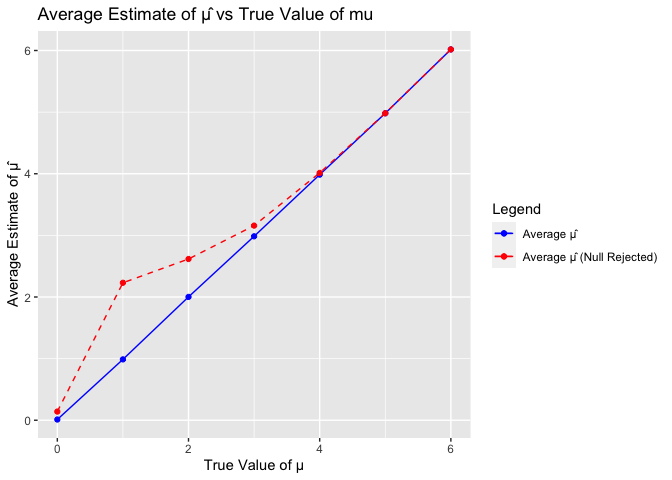
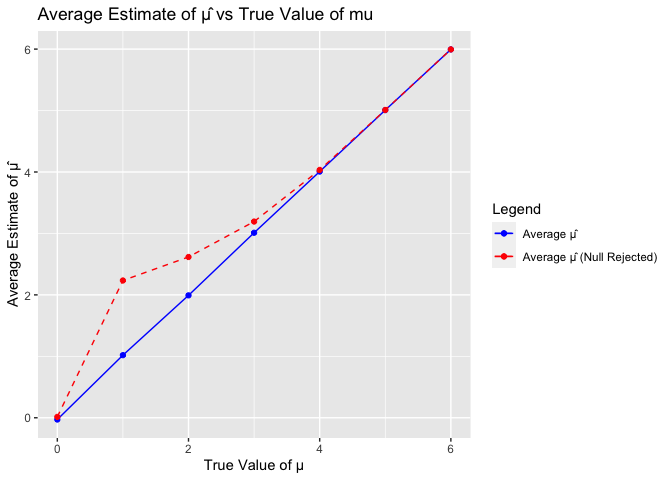
ggsave added

diff --git a/p8105_hw5_qw2418.md b/p8105_hw5_qw2418.md
@@ -218,6 +218,12 @@ ggplot(combined_data, aes(x = Week, y = Observation, group = `Subject ID`, color
 
 ![](p8105_hw5_qw2418_files/figure-gfm/unnamed-chunk-6-1.png)<!-- -->
 
+``` r
+ggsave("spaghetti plot.jpg")
+```
+
+    ## Saving 7 x 5 in image
+
 *comment on differences between groups *: In the control group, when the
 observations are relatively stable across weeks. However, in the
 experimental group, the observation increases when week increases.
@@ -288,19 +294,20 @@ for (i in mu){
 power
 ```
 
-    ## [1] 0.0504 0.1868 0.5626 0.8950 0.9880 0.9996 1.0000
+    ## [1] 0.0506 0.1976 0.5592 0.8930 0.9888 0.9994 1.0000
 
 ``` r
 mean_estimate
 ```
 
-    ## [1] 0.01182005 0.98747296 2.00135396 2.98474683 3.98600500 4.98133098 6.01763679
+    ## [1] -0.02842918  1.01876254  1.99206719  3.01104539  4.00727529  5.00759956
+    ## [7]  5.99495026
 
 ``` r
 mean_est_rej
 ```
 
-    ## [1] 0.1407539 2.2304799 2.6165246 3.1585029 4.0138080 4.9825350 6.0176368
+    ## [1] 0.01424998 2.23428078 2.61660589 3.19328728 4.03375357 5.00947031 5.99495026
 
 Make a plot showing the proportion of times the null was rejected (the
 power of the test) on the y axis and the true value of μ on the x axis.
@@ -312,13 +319,13 @@ df
 ```
 
     ##   mu  power mean_estimate mean_est_rej
-    ## 1  0 0.0504    0.01182005    0.1407539
-    ## 2  1 0.1868    0.98747296    2.2304799
-    ## 3  2 0.5626    2.00135396    2.6165246
-    ## 4  3 0.8950    2.98474683    3.1585029
-    ## 5  4 0.9880    3.98600500    4.0138080
-    ## 6  5 0.9996    4.98133098    4.9825350
-    ## 7  6 1.0000    6.01763679    6.0176368
+    ## 1  0 0.0506   -0.02842918   0.01424998
+    ## 2  1 0.1976    1.01876254   2.23428078
+    ## 3  2 0.5592    1.99206719   2.61660589
+    ## 4  3 0.8930    3.01104539   3.19328728
+    ## 5  4 0.9888    4.00727529   4.03375357
+    ## 6  5 0.9994    5.00759956   5.00947031
+    ## 7  6 1.0000    5.99495026   5.99495026
 
 ``` r
 ggplot(df, aes(x = mu, y = power)) +
@@ -328,6 +335,12 @@ ggplot(df, aes(x = mu, y = power)) +
 ```
 
 ![](p8105_hw5_qw2418_files/figure-gfm/unnamed-chunk-8-1.png)<!-- -->
+
+``` r
+ggsave("Power vs True Value of mu.jpg")
+```
+
+    ## Saving 7 x 5 in image
 
 Make a plot showing the average estimate of μ̂ on the y axis and the true
 value of μ on the x axis. Make a second plot (or overlay on the first)
@@ -348,6 +361,12 @@ ggplot(df) +
 ```
 
 ![](p8105_hw5_qw2418_files/figure-gfm/unnamed-chunk-9-1.png)<!-- -->
+
+``` r
+ggsave("average estimuate of mu_bar and the true value of mu.jpg")
+```
+
+    ## Saving 7 x 5 in image
 
 Is the sample average of μ̂ across tests for which the null is rejected
 approximately equal to the true value of μ? Why or why not?
